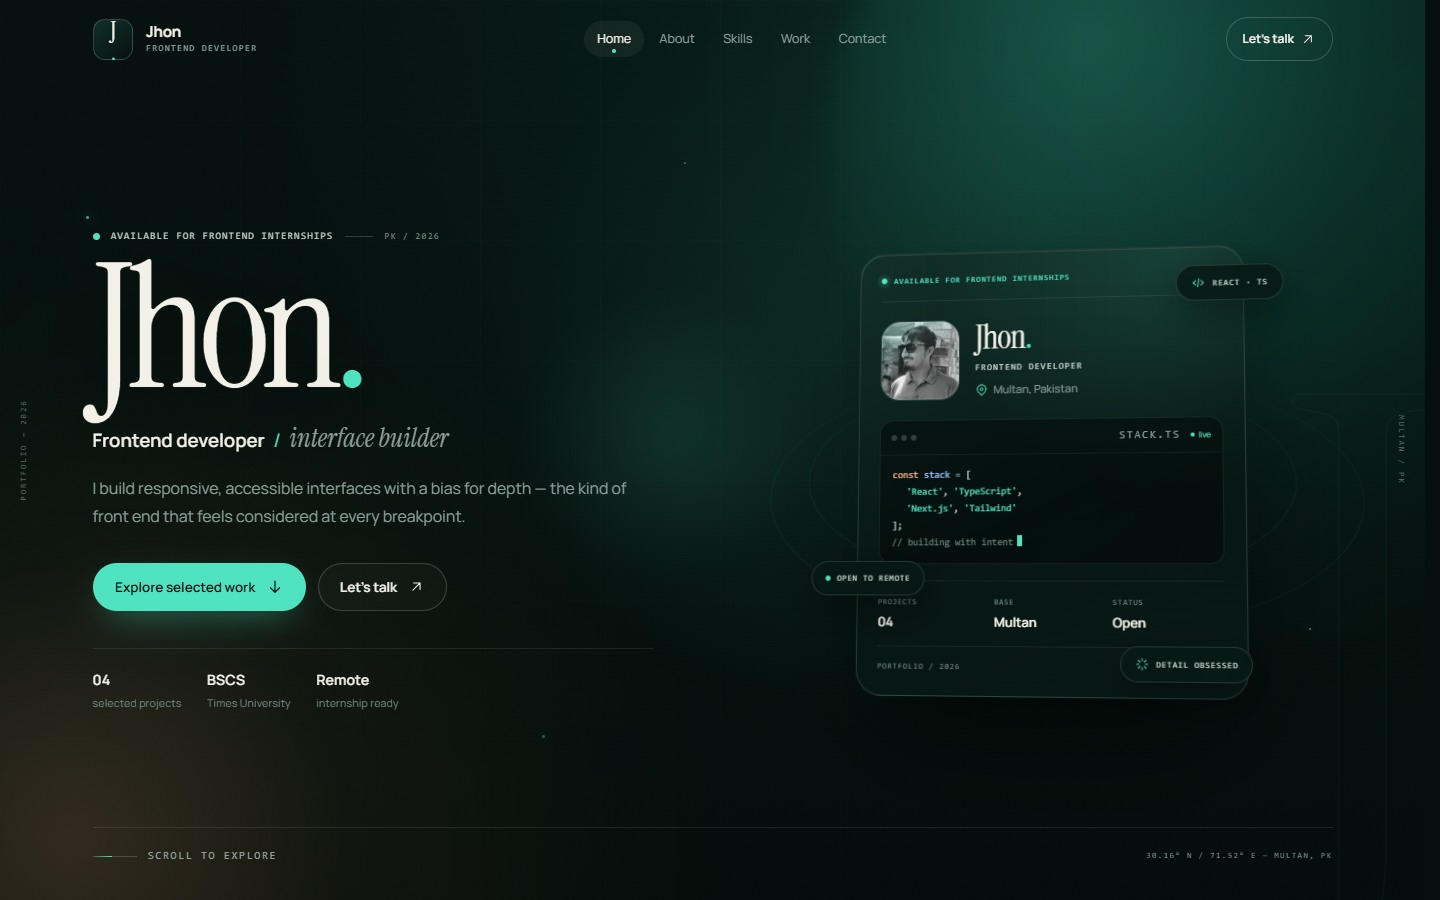
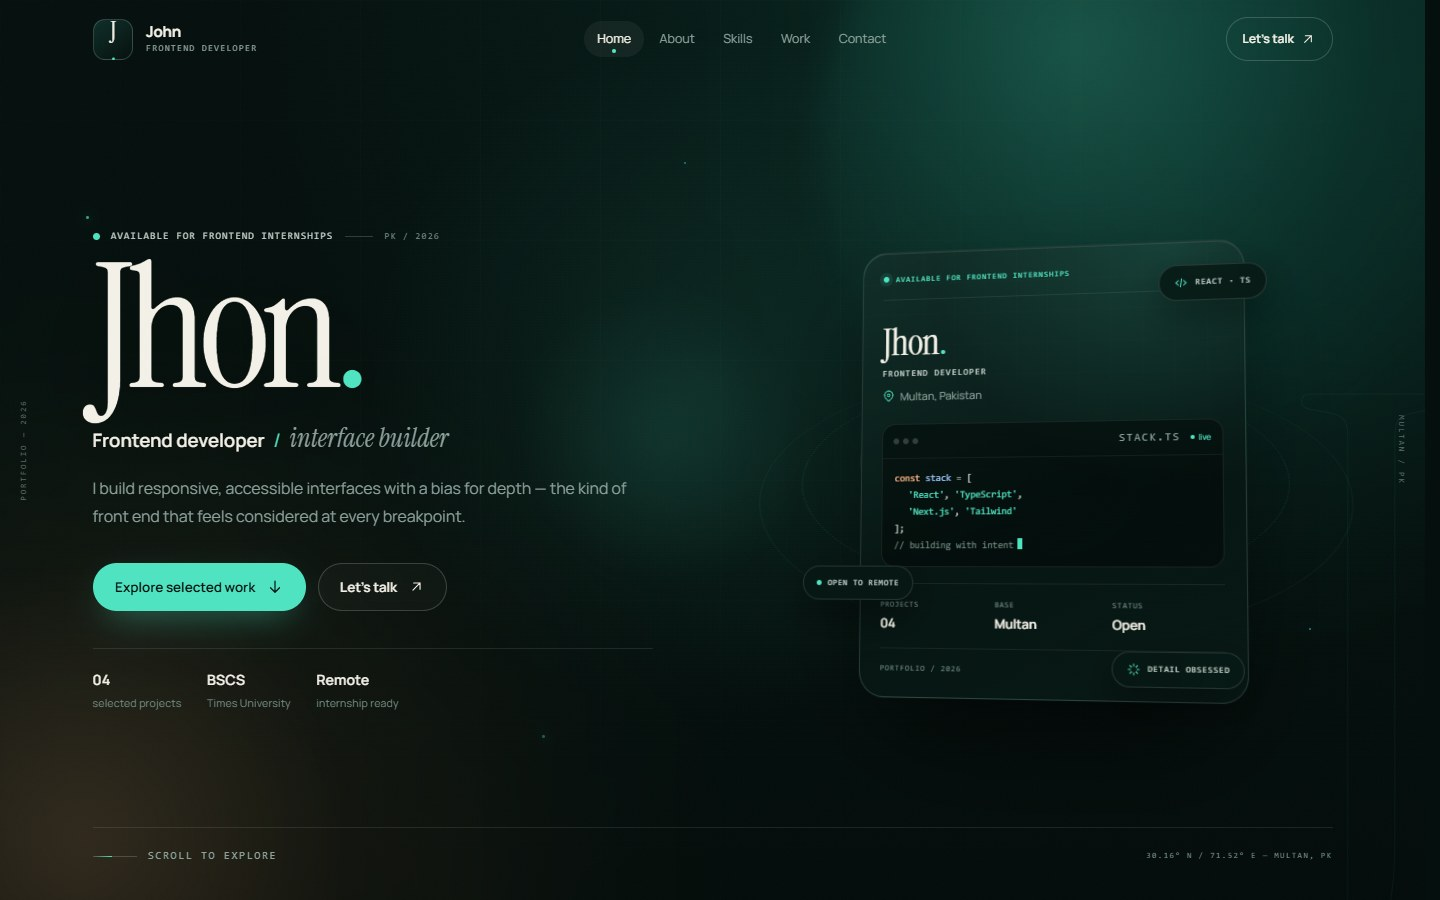
Remove profile photo from hero card

diff --git a/src/styles/global.css b/src/styles/global.css
@@ -1221,50 +1221,8 @@ main:focus {
 }
 
 .id-profile {
-  display: flex;
-  align-items: center;
-  gap: 1rem;
-  padding-block: 1.25rem;
+  padding-block: 1.45rem 1.25rem;
   transform: translateZ(22px);
-}
-
-.id-avatar {
-  position: relative;
-  width: 82px;
-  height: 82px;
-  flex-shrink: 0;
-  overflow: hidden;
-  border: 1px solid rgba(255, 255, 255, 0.16);
-  border-radius: 20px;
-  background: var(--bg-raised);
-}
-
-.id-avatar img {
-  width: 100%;
-  height: 100%;
-  object-fit: cover;
-  filter: grayscale(100%) contrast(1.08) brightness(0.94);
-  transform: scale(1.02);
-}
-
-.id-avatar::after {
-  position: absolute;
-  inset: 0;
-  background: linear-gradient(
-    145deg,
-    rgba(79, 227, 193, 0.28),
-    transparent 55%,
-    rgba(5, 16, 14, 0.32)
-  );
-  content: '';
-  mix-blend-mode: color;
-}
-
-.id-avatar-ring {
-  position: absolute;
-  inset: 0;
-  border-radius: 20px;
-  box-shadow: inset 0 0 0 1px rgba(255, 255, 255, 0.12);
 }
 
 .id-identity {
@@ -1274,7 +1232,7 @@ main:focus {
 .id-name {
   color: var(--ink);
   font-family: var(--font-display);
-  font-size: 2.1rem;
+  font-size: 2.45rem;
   letter-spacing: -0.02em;
   line-height: 1;
 }
@@ -3610,18 +3568,8 @@ main:focus {
     border-radius: 22px;
   }
 
-  .id-profile {
-    gap: 0.85rem;
-  }
-
-  .id-avatar {
-    width: 70px;
-    height: 70px;
-    border-radius: 17px;
-  }
-
   .id-name {
-    font-size: 1.85rem;
+    font-size: 1.95rem;
   }
 
   .id-code code {
@@ -3691,13 +3639,8 @@ main:focus {
     width: 100%;
   }
 
-  .id-avatar {
-    width: 62px;
-    height: 62px;
-  }
-
   .id-name {
-    font-size: 1.7rem;
+    font-size: 1.8rem;
   }
 
   .float-chip {

diff --git a/src/components/HeroCard.tsx b/src/components/HeroCard.tsx
@@ -22,16 +22,6 @@ export function HeroCard() {
           </div>
 
           <div className="id-profile">
-            <div className="id-avatar">
-              <img
-                alt="Jhon"
-                decoding="async"
-                height="460"
-                src={profile.avatar}
-                width="460"
-              />
-              <span aria-hidden="true" className="id-avatar-ring" />
-            </div>
             <div className="id-identity">
               <p className="id-name">
                 {profile.name}
